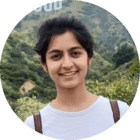
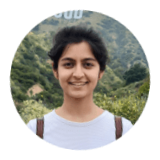
Add Outreachy experience in experience section & change pic to the old one

diff --git a/index.html b/index.html
@@ -23,9 +23,9 @@
     <div class="wrapper">
         <div class="sidebar-wrapper">
             <div class="profile-container">
-                <img class="profile" src="assets/images/me_2023_circle.png" alt="" />
+                <img class="profile" src="assets/images/circle-cropped.png" alt="" />
                 <h1 class="name">Soumya Negi</h1>
-                <h3 class="tagline">Grad student</h3>
+                <h3 class="tagline">Software Engineer</h3>
             </div><!--//profile-container-->
             
             <div class="education-container container-block">
@@ -86,14 +86,31 @@
             <section class="section summary-section">
                 <h2 class="section-title"><span class="icon-holder"><i class="fas fa-user"></i></span>Career Profile</h2>
                 <div class="summary">
-                    <p>Recent MS in Computer Science grad from University of Southern California. Interested in <b>Operating Systems, Virtualization and Parallel Systems.</b></p>
+                    <p>Recent MS in Computer Science grad from University of Southern California. Interested in <b>System Software, Operating Systems, Virtualization and Parallel Systems.</b></p>
                 </div><!--//summary-->
             </section><!--//section-->
             
             <section class="section experiences-section">
                 <h2 class="section-title"><span class="icon-holder"><i class="fas fa-briefcase"></i></span>Experiences</h2>
                 
-               <div class="item">
+                <div class="item">
+                    <div class="meta">
+                        <div class="upper-row">
+                            <h3 class="job-title">Outreachy </h3>
+                            <div class="time">Dec 2023-Present</div>
+                        </div><!--//upper-row-->
+                        <div class="company">Linux Kernel Intern</div>
+                    </div><!--//meta-->
+                    <div class="details">
+                        <p>Currently improving the <i>sysfs</i> implementation in DRM driver <i>i915</i>(i.e the Intel graphics driver) by reviewing & refactoring the <i>sysfs</i> power managament structure in <i>drivers/gpu/drm/i915/gt/intel_gt_sysfs_pm.c</i> . The purpose is to split the code for GTs(tiles) & general GPU in the driver. Changes made to the driver will be tested using the <a href="https://gitlab.freedesktop.org/drm/igt-gpu-tools" target="_blank">IGT suite</a>.<br>
+Mentors: Andi Shyti & Karolina Stolarek
+                        <br><span class="details"><a href="https://www.outreachy.org/outreachy-december-2023-internship-round/communities/linux-kernel/#improve-i915-sysfs-interface-implementation" target="_blank">[Project Details]</a></span> <span class="details"> <a href="https://patchwork.freedesktop.org/project/intel-gfx/list/?submitter=21090" target="_blank">[Patches]</a></span>
+                        </p>  
+                        
+                    </div><!--//details-->
+                </div><!--//item-->
+                
+                <div class="item">
                     <div class="meta">
                         <div class="upper-row">
                             <h3 class="job-title">Linux Kernel Mentorship Program @ Linux Foundation </h3>
@@ -103,7 +120,7 @@
                     </div><!--//meta-->
                     <div class="details">
                         <p>As part of the Summer 2022 Linux Bug Fixing round, worked mainly on bugs reported by <a href="https://syzkaller.appspot.com/upstream" target="_blank">Syzbot</a>(a fuzzer), ran build tests for release candidates, contributed patches to upstream etc. Mentored by Shuah Khan(Linux Fellow, maintainer) & Pavel Skripkin. Instances of Kernel Debugging experience have been described in <a href="https://negi-soumya.github.io/blog/" target="_blank">[Blog]</a>
-                        <br><span class="details"><a href="https://git.kernel.org/pub/scm/linux/kernel/git/next/linux-next.git/log/?qt=author&q=Soumya+Negi" target="_blank">[Linux Contributions]</a></span></p> 
+                        <br><span class="details"><a href="https://git.kernel.org/pub/scm/linux/kernel/git/next/linux-next.git/log/?qt=author&q=Soumya+Negi" target="_blank">[Linux Contributions]</a></span>
                         </p>  
                         
                     </div><!--//details-->
